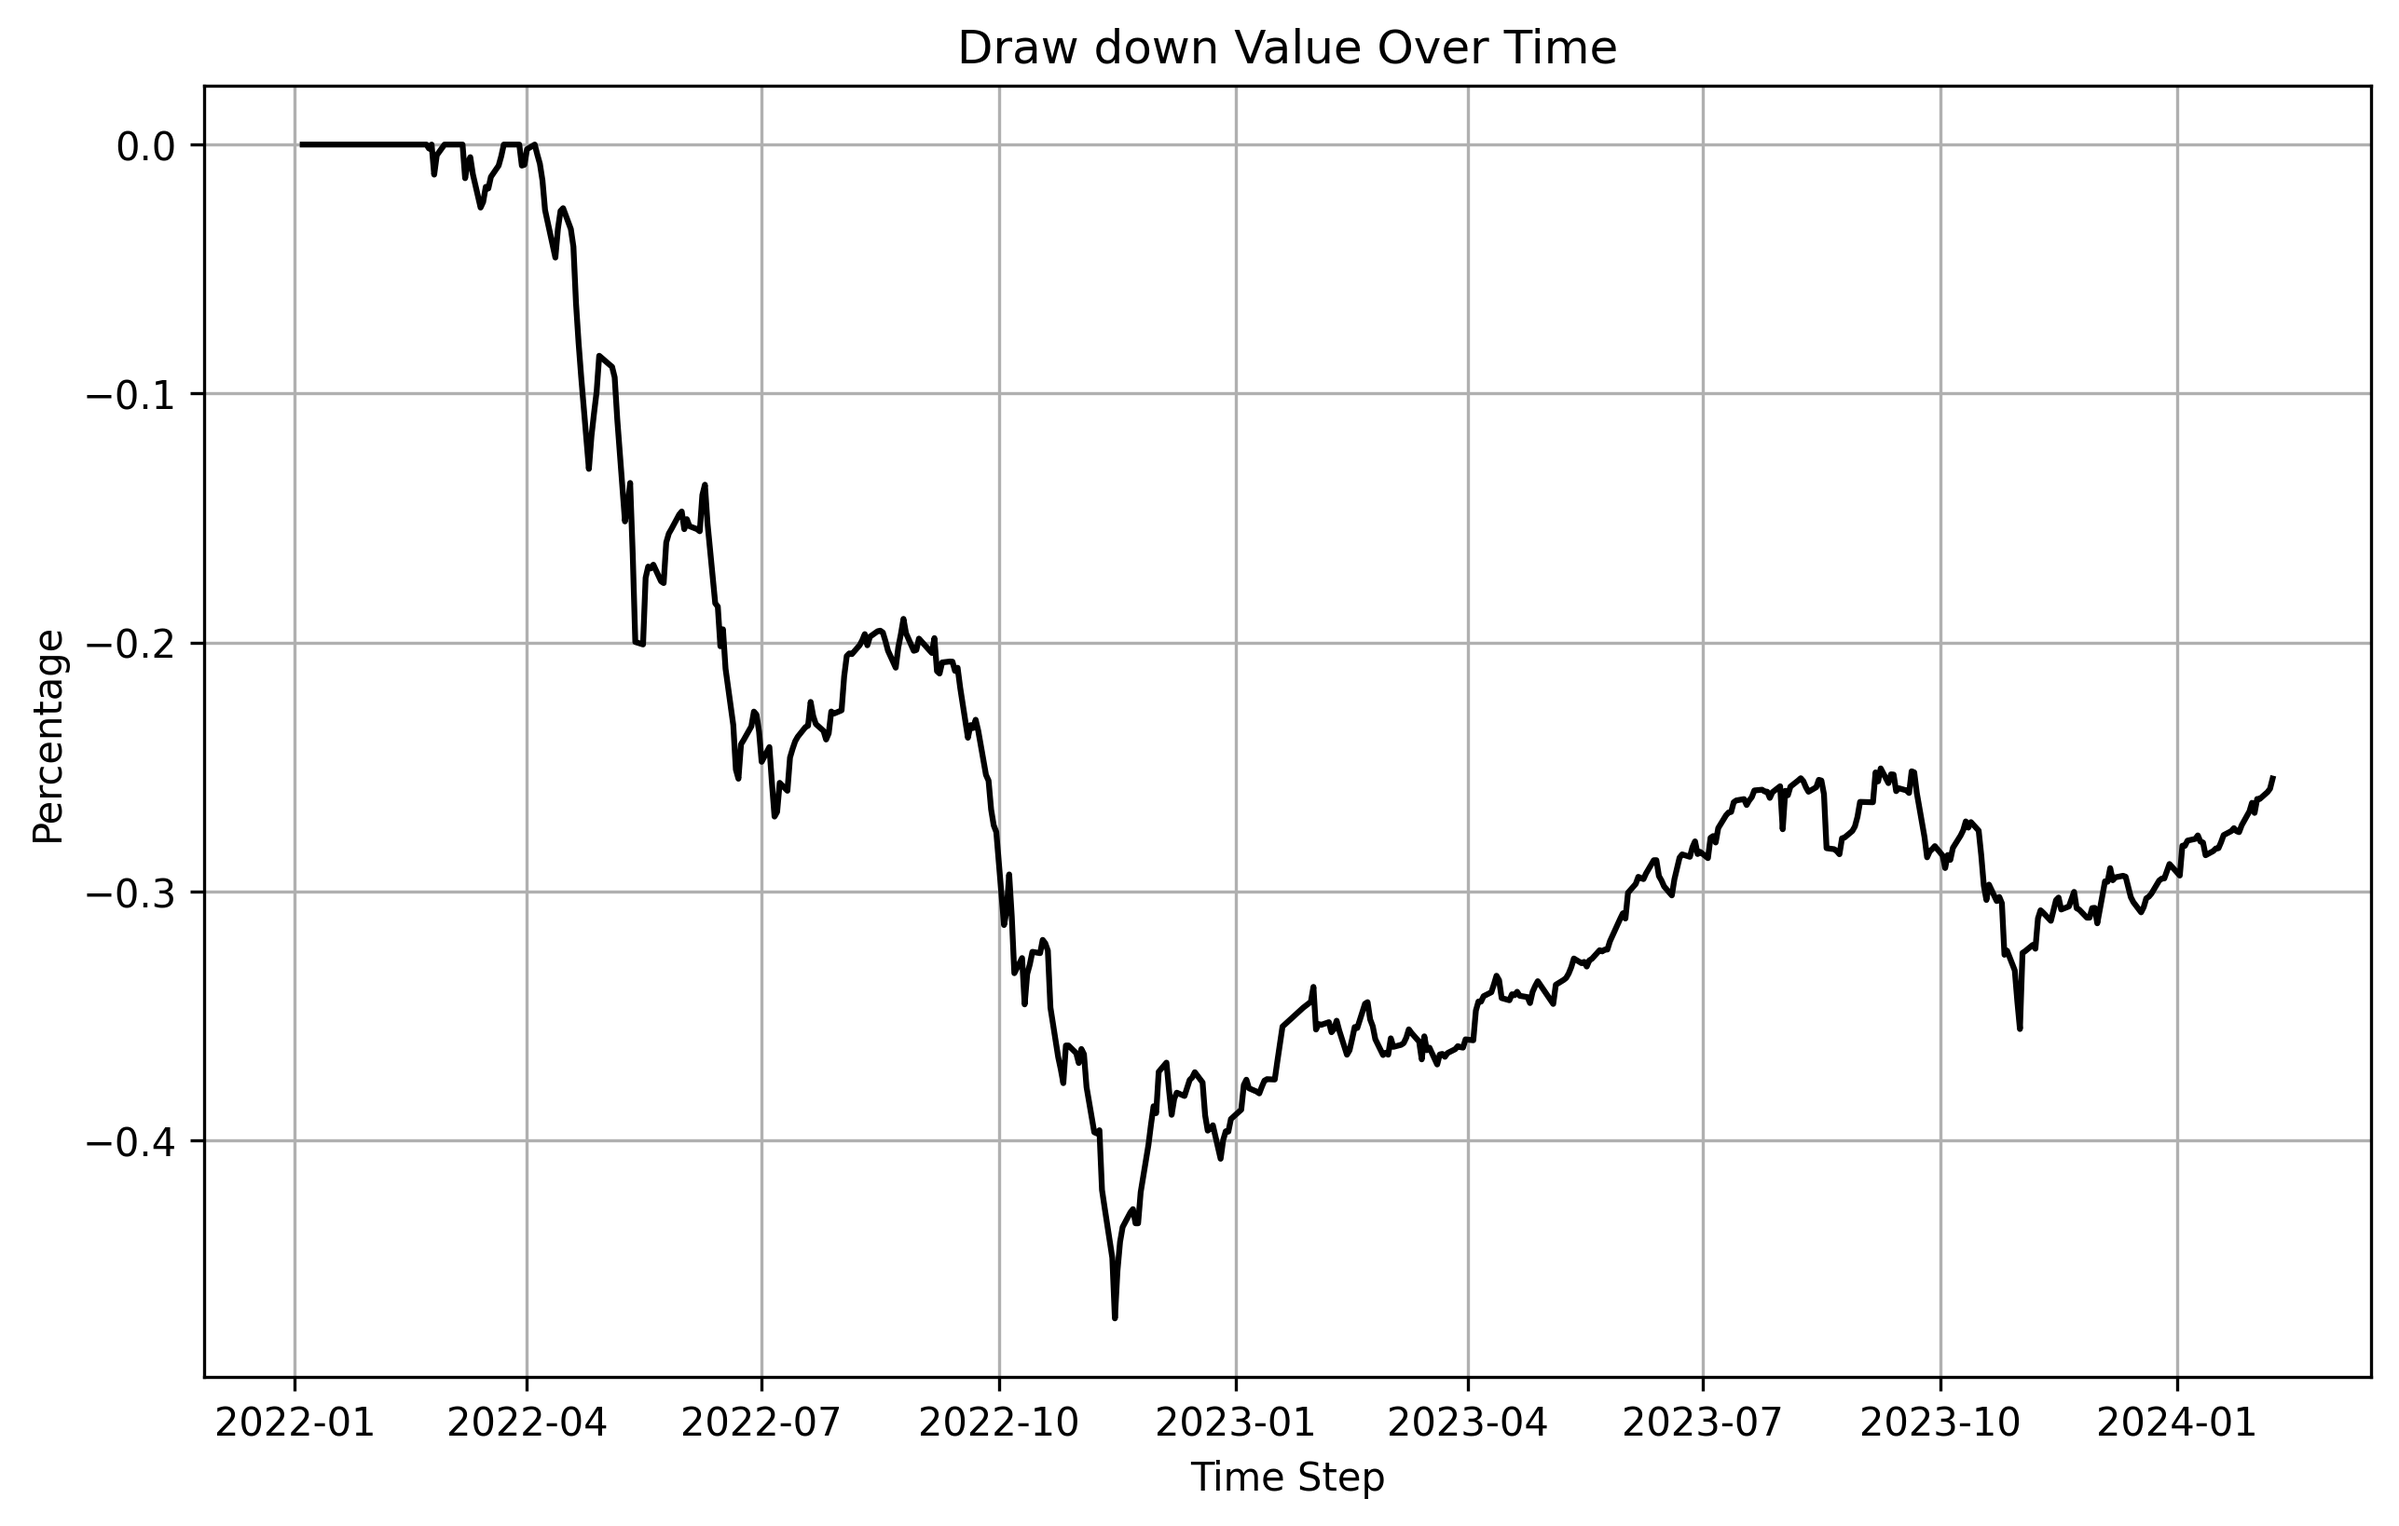
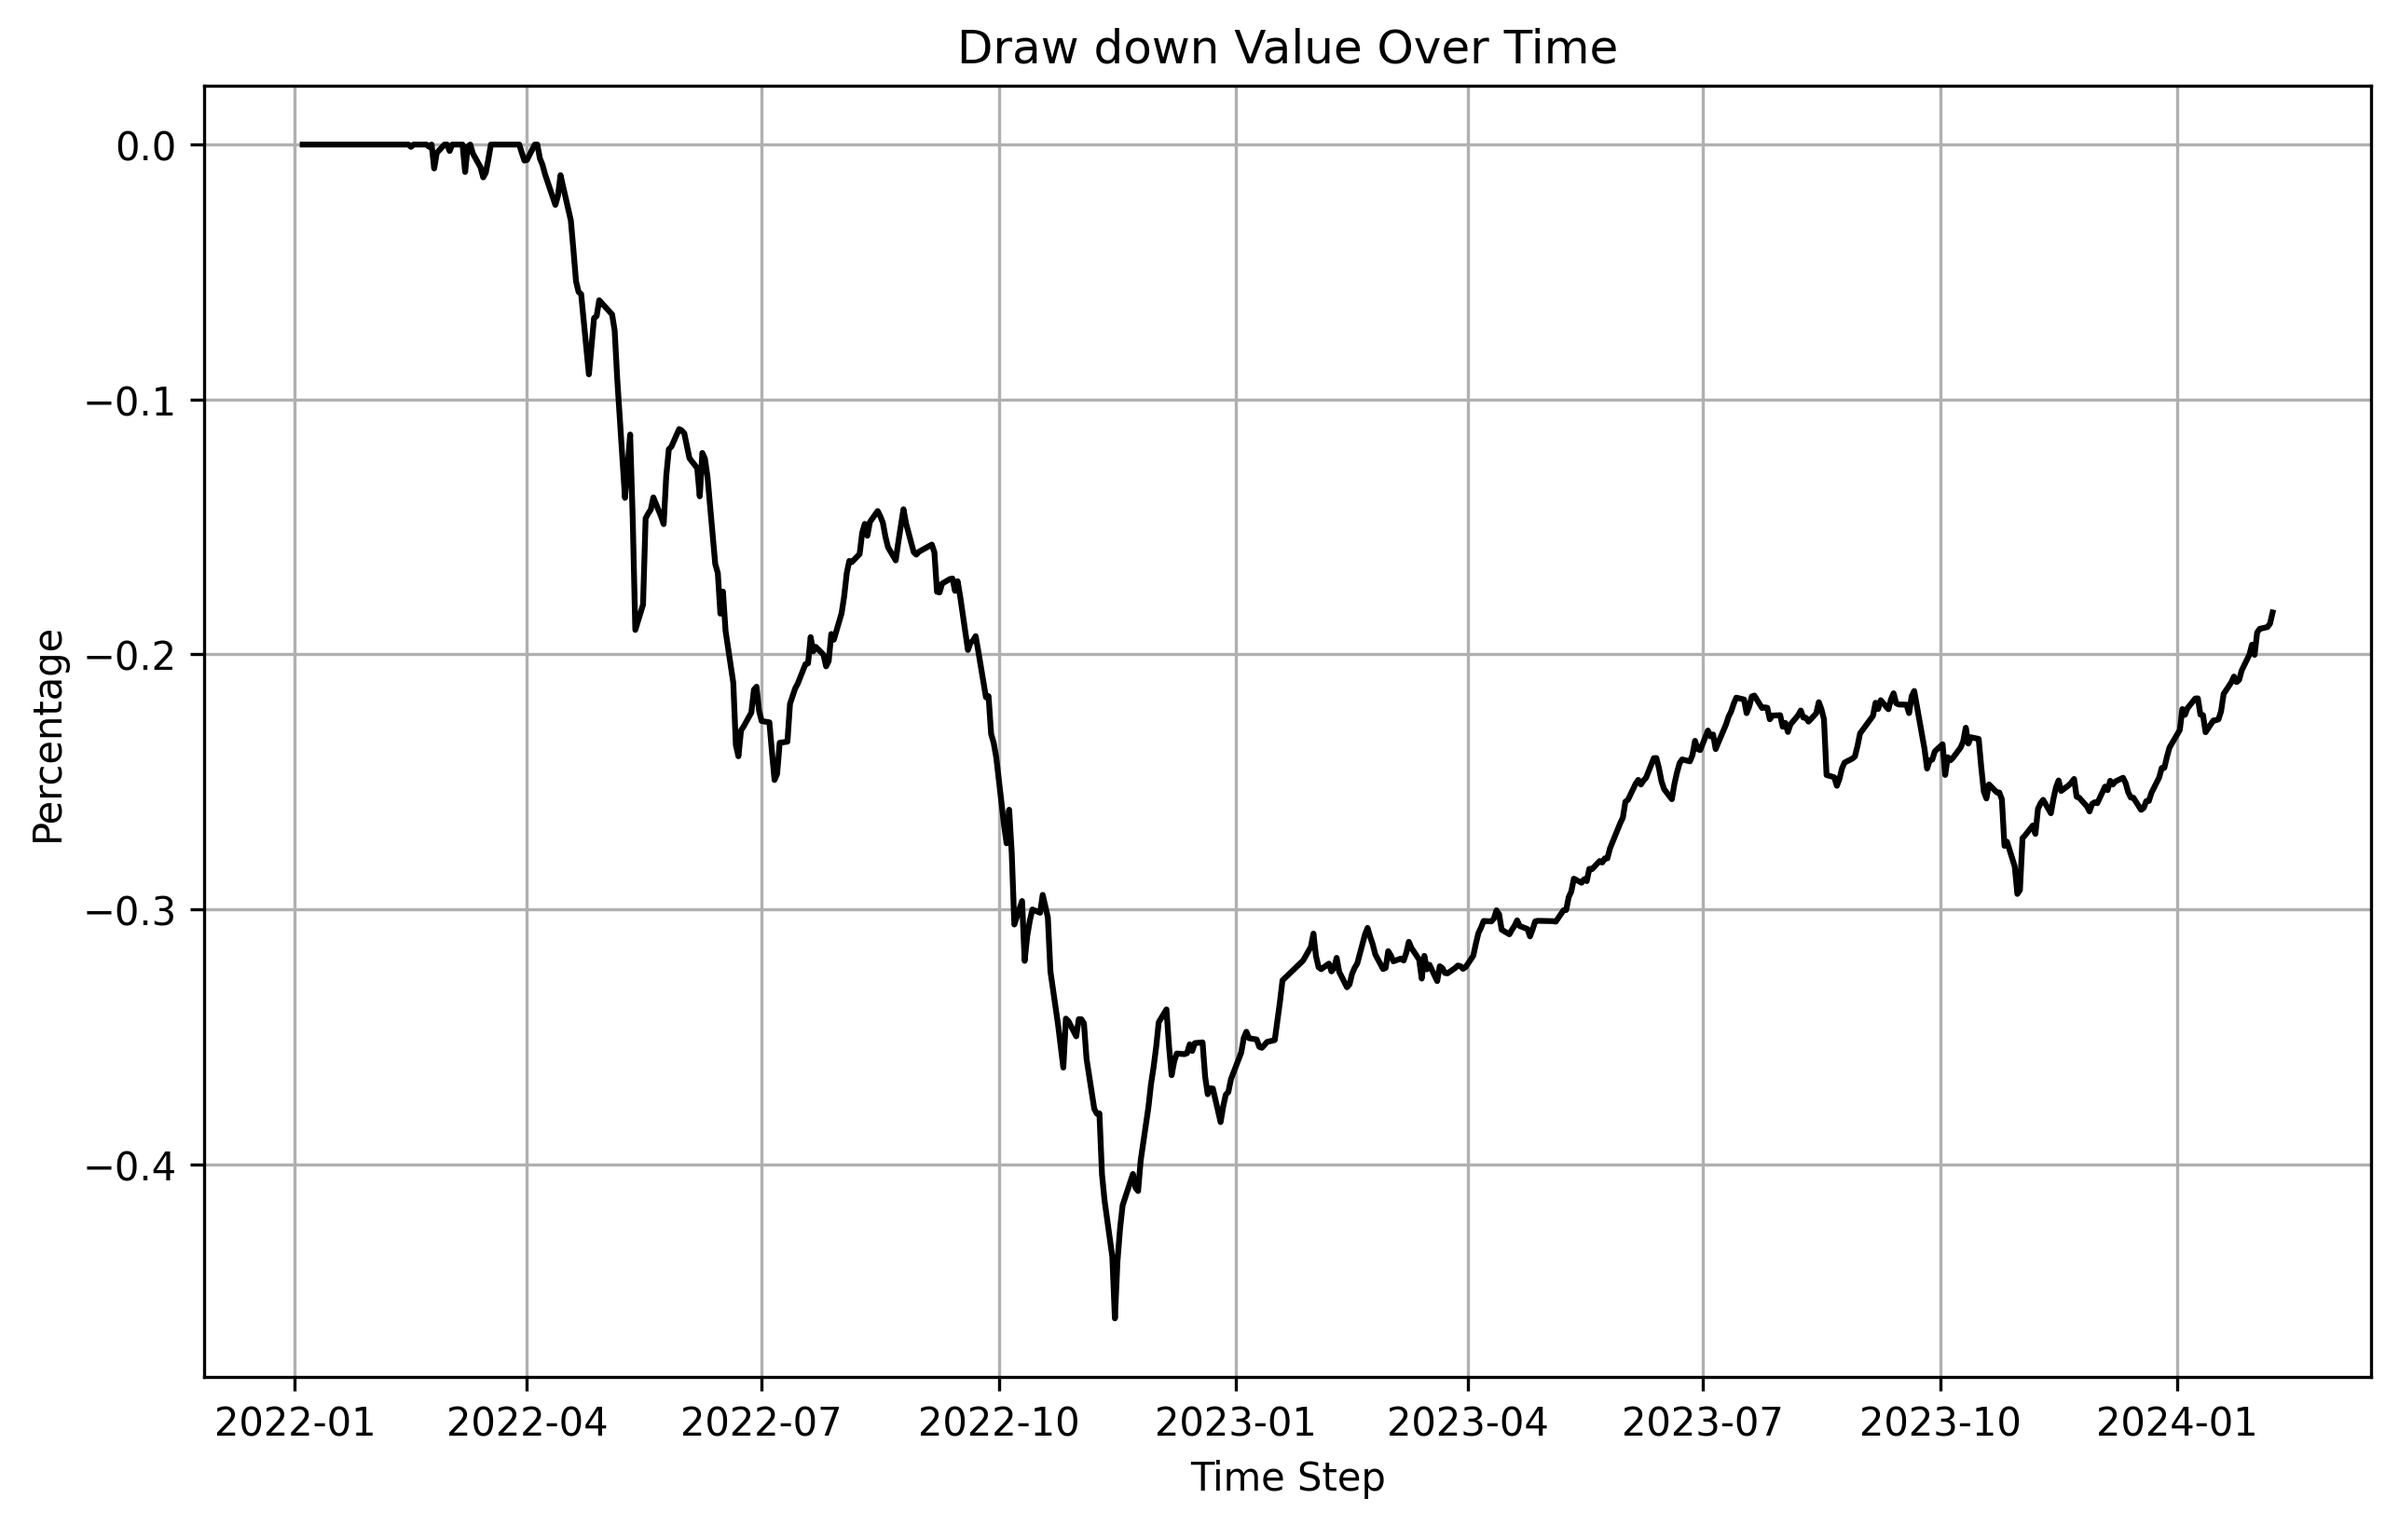
update optimization

diff --git a/optimization.py b/optimization.py
@@ -36,23 +36,18 @@ class OptunaCallBack:
             study (optuna.study.Study): _description_
             trial (optuna.trial.FrozenTrial): _description_
         """
-        pelb = trial.params["pelb"]
         peub = trial.params["peub"]
         dylb = trial.params["dylb"]
-        dyub = trial.params["dyub"]
         self.logger.info(
-            "%s,%s,%s,%s,%s,%s",
+            "%s,%s,%s,%s",
             trial.number,
-            pelb,
             peub,
             dylb,
-            dyub,
             trial.value,
         )
 
 
 if __name__ == "__main__":
-    smart_beta, grouped_data, rebalancing_dates = create_bt_instance()
 
     def objective(trial):
         """
@@ -64,26 +59,27 @@ if __name__ == "__main__":
         Returns:
             _type_: _description_
         """
-        pelb = trial.suggest_float(
-            "pelb", OPTIMIZATION_CONFIG["pe_low"][0], OPTIMIZATION_CONFIG["pe_low"][1]
+        smart_beta, grouped_data, rebalancing_dates = create_bt_instance(
+            process_data=True, is_data=True
         )
-        peub = trial.suggest_float(
-            "peub", OPTIMIZATION_CONFIG["pe_high"][0], OPTIMIZATION_CONFIG["pe_high"][1]
+        peub = trial.suggest_int(
+            "peub",
+            OPTIMIZATION_CONFIG["pe_high"][0],
+            OPTIMIZATION_CONFIG["pe_high"][1],
+            step=1,
         )
         dylb = trial.suggest_float(
             "dylb", OPTIMIZATION_CONFIG["dy_low"][0], OPTIMIZATION_CONFIG["dy_low"][1]
         )
-        dyub = trial.suggest_float(
-            "dyub", OPTIMIZATION_CONFIG["dy_high"][0], OPTIMIZATION_CONFIG["dy_high"][1]
-        )
 
-        return smart_beta.run(
-            grouped_data, rebalancing_dates, [pelb, peub], [dylb, dyub]
-        )
+        return smart_beta.run(grouped_data, rebalancing_dates, [0, peub], [dylb, 1e6])
 
     optunaCallBack = OptunaCallBack()
     # TODO: correct the seed to get input from the parameter/optimization_parameter.json
-    study = optuna.create_study(sampler=TPESampler(seed=2024), direction="maximize")
+    study = optuna.create_study(
+        sampler=TPESampler(seed=OPTIMIZATION_CONFIG["random_seed"]),
+        direction="maximize",
+    )
     study.optimize(
         objective, n_trials=OPTIMIZATION_CONFIG["no_trials"], callbacks=[optunaCallBack]
     )

diff --git a/README.md b/README.md
@@ -123,7 +123,7 @@ python backtesting.py
 |------------------------|------------------------------------|
 | Sharpe Ratio           | 1.2971                             |
 | Information Ratio      | 0.0298                             |
-| Sortino Ratio          | 1.7297                            |
+| Sortino Ratio          | 1.7297                             |
 | Maximum Drawdown (MDD) | -0.2828                            |
 ```
 - The NAV chart. The chart is located at: `result/backtest/nav.png`
@@ -140,8 +140,8 @@ python optimization.py
 The currently found optimized parameters with the seed `2024` are:
 ```json
 {
-    "pe": [0, 15],
-    "dy": [0.01, 1e6]
+    "pe": [0, 10],
+    "dy": [0.056272982721535775, 1e6]
 }
 ```
 ## Out-of-sample Backtesting
@@ -156,10 +156,10 @@ python evaluation.py
 ```
 | Metric                 | Value                              |
 |------------------------|------------------------------------|
-| Sharpe Ratio           | -0.6420                            |
-| Information Ratio      | 0.0206                             |
-| Sortino Ratio          | -0.7986                            |
-| Maximum Drawdown (MDD) | -0.4715                            |
+| Sharpe Ratio           | -0.3497                            |
+| Information Ratio      | 0.0470                             |
+| Sortino Ratio          | -0.4363                            |
+| Maximum Drawdown (MDD) | -0.4604                            |
 ```
 - The NAV chart. The chart is located at `result/optimization/nav.png`.
 ![NAV chart with VNINDEX benchmark](result/optimization/nav.png)
